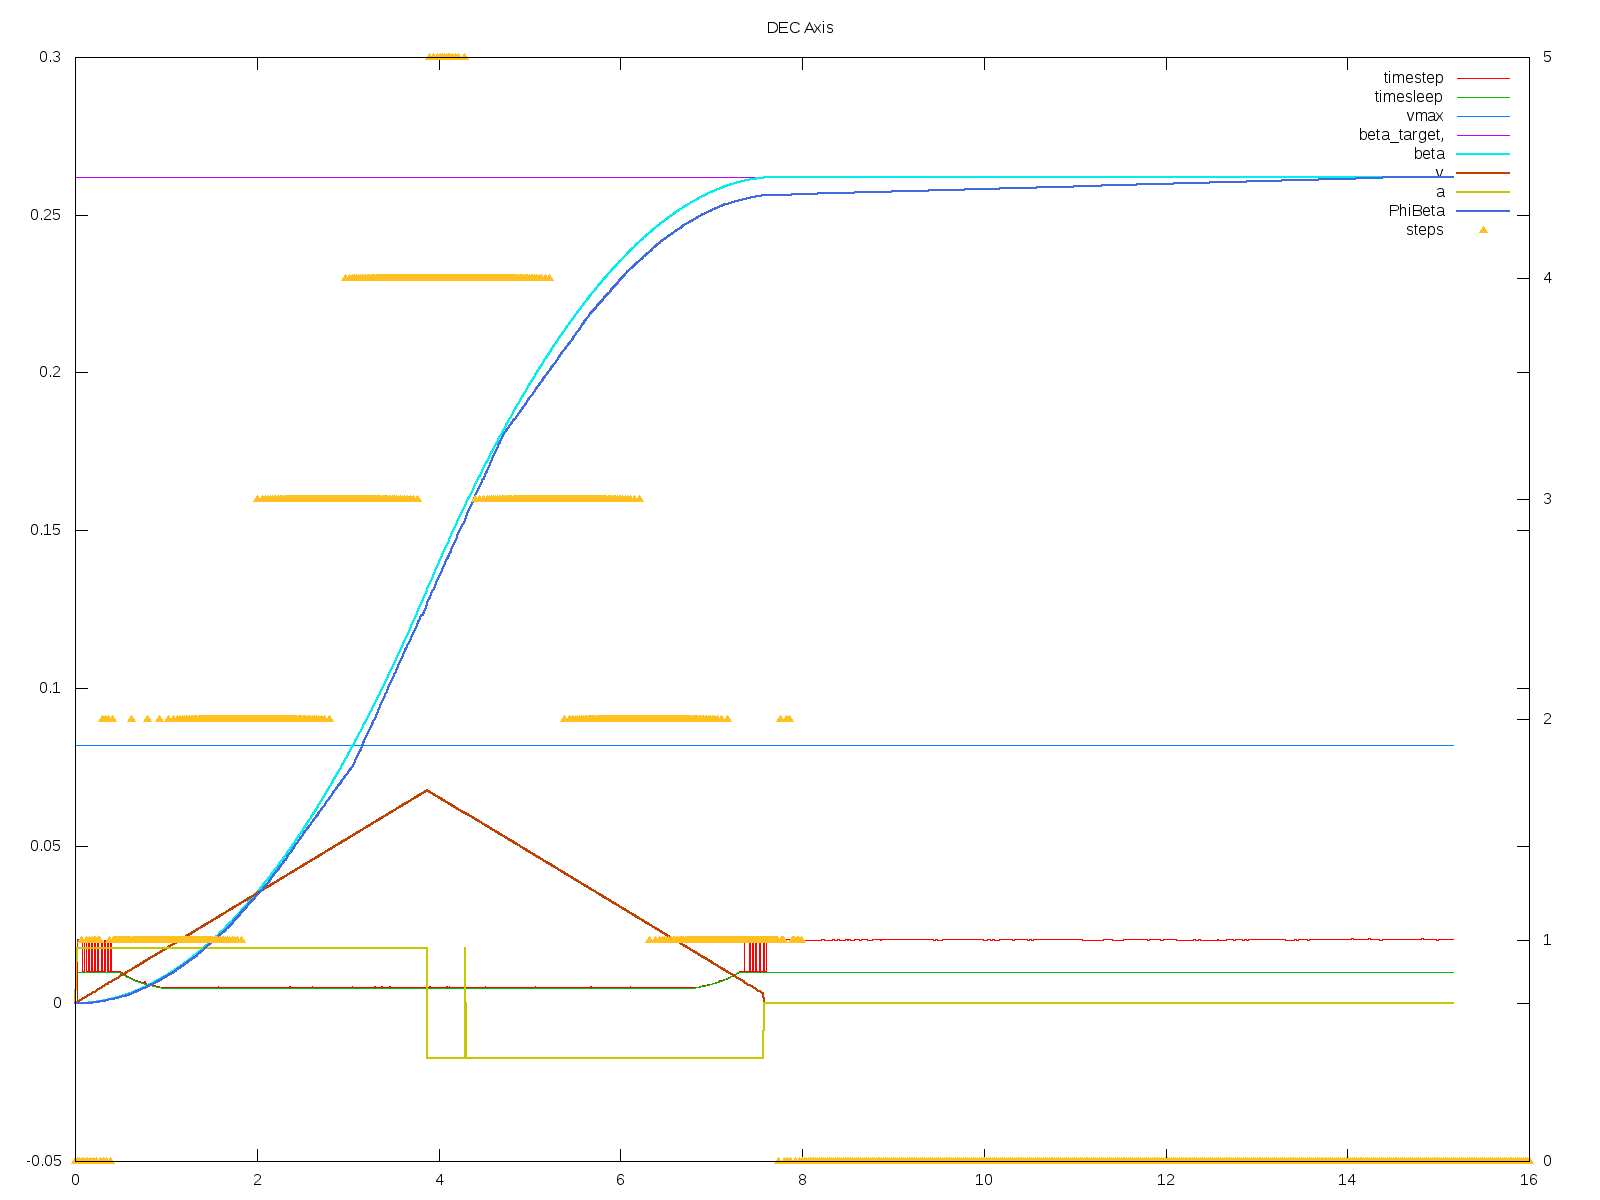
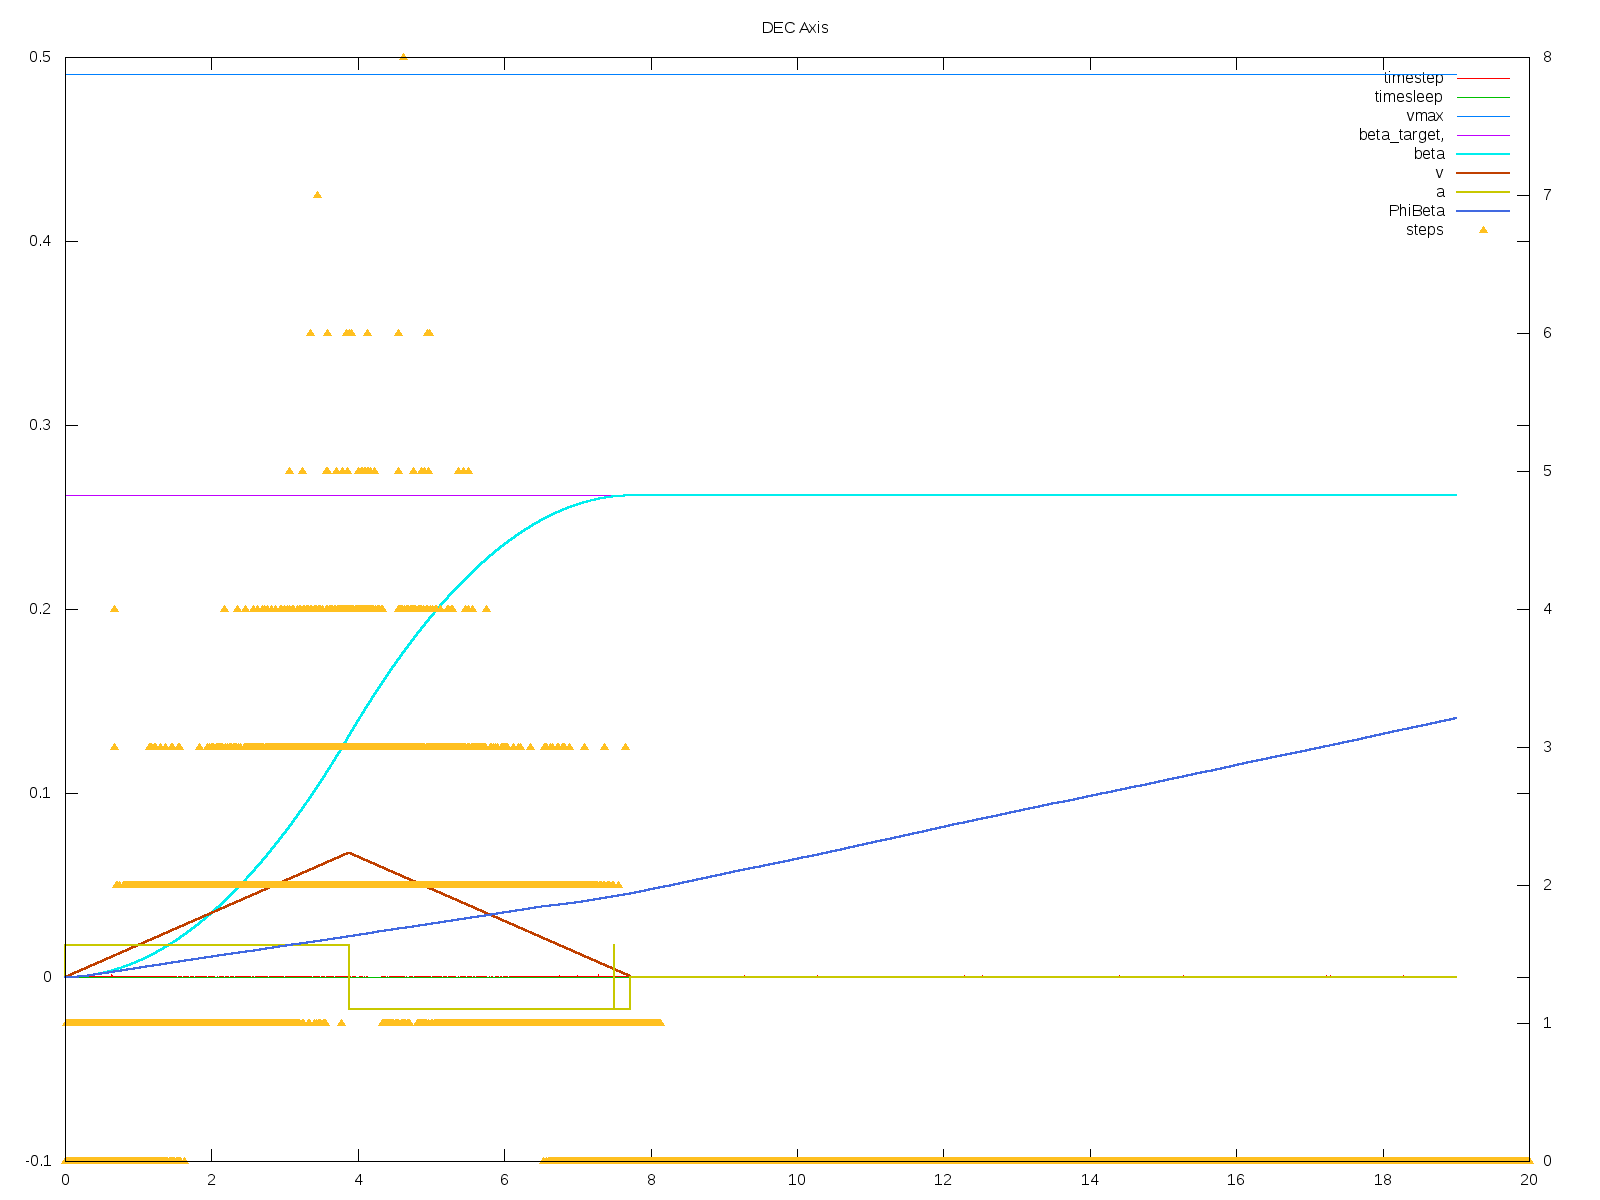
Hardware PWM. Some pulses get losse but works!

diff --git a/ramps.py b/ramps.py
@@ -209,7 +209,7 @@ class AxisDriver(axis):
 		self.DIR_PIN=DIR_PIN
 		cb1 = self.pi.callback(self.PIN, pigpio.FALLING_EDGE, self.stepCounter)
 		self.stepsPerRevolution=200*16*24	#Motor:steps*microsteps*gearbox
-		self.corona=30
+		self.corona=500
 		self.plate=500
 		self.FullTurnSteps=self.plate*self.stepsPerRevolution/self.corona
 		self.stepsRest=0
@@ -288,8 +288,9 @@ class AxisDriver(axis):
 		if abs(self.stepTarget-self.PhiBeta) == 0:
 	 	   with self.lock:
 			self.discartFlag=True
-		  	self.pi.set_PWM_dutycycle(self.PIN, 0)
-			self.pi.set_PWM_frequency(self.PIN,0)
+			self.pi.hardware_PWM(self.PIN,0,0)
+		  	#self.pi.set_PWM_dutycycle(self.PIN, 0)
+			#self.pi.set_PWM_frequency(self.PIN,0)
 			#self.pi.write(self.PIN, 0)
 			#print self.name,self.PhiBeta,self.stepTarget,abs(self.stepTarget-self.PhiBeta)
 			#print "Stop PWM"
@@ -313,29 +314,39 @@ class AxisDriver(axis):
 
 	@threaded
 	def stepQueue(self):
-	  self.pi.set_PWM_frequency(self.PIN,1/self.pulseWidth)
+	  #self.pi.set_PWM_frequency(self.PIN,1/self.pulseWidth)
  	  while not self.kill:
 		with self.lock:
 		   if abs(self.stepTarget-self.PhiBeta) != 0:
-			self.pi.set_PWM_dutycycle(self.PIN, int(self.pulseDuty*255))
+			#self.pi.set_PWM_dutycycle(self.PIN, int(self.pulseDuty*255))
 			freq=round(abs(self.v)*1/self.MinPhiStep)
 			#print freq
 			if freq  <1/self.pulseWidth:
-				self.pi.set_PWM_frequency(self.PIN,freq)
+				#self.pi.set_PWM_frequency(self.PIN,freq)
+				self.pi.hardware_PWM(self.PIN,freq,self.pulseDuty*1000000)
 				if freq>self.pi.get_PWM_frequency(self.PIN):
+					pass
 					print self.name,freq,self.pi.get_PWM_frequency(self.PIN)
 			else:
-				self.pi.set_PWM_frequency(self.PIN,1/self.pulseWidth)
+				#self.pi.set_PWM_frequency(self.PIN,1/self.pulseWidth)
+				self.pi.hardware_PWM(self.PIN,1/self.pulseWidth,self.pulseDuty*1000000)
 			self.discartFlag=False
 		time.sleep(self.pulseWidth)
 	  print "STEPS QUEUE END"
-	  self.pi.set_PWM_dutycycle(self.PIN, 0)
+	  self.pi.hardware_PWM(self.PIN,0,0)
+	  #self.pi.set_PWM_dutycycle(self.PIN, 0)
 	  time.sleep(self.pulseWidth)
+
+	def testFreq(self):
+		for f in range(1000):
+			#self.pi.set_PWM_frequency(self.PIN,f)
+			self.pi.hardware_PWM(self.PIN,f,500000)
+			print f, self.pi.get_PWM_frequency(self.PIN)
 
 class mount:
 	def __init__(self,a,v,pointError):
-		self.axis1=AxisDriver(a,v,pointError,4,12)
-		self.axis2=AxisDriver(a,v,pointError,5,13)
+		self.axis1=AxisDriver(a,v,pointError,12,4)
+		self.axis2=AxisDriver(a,v,pointError,13,5)
 		#self.axis1=axis(a,v,pointError)
 		#self.axis2=axis(a,v,pointError)
 		self.axis1.setName("RA")
@@ -399,12 +410,18 @@ class mount:
 		self.axis2.kill=True
 
 
+
+
+
 if __name__ == '__main__':
 	#m=mount(1,1)
 	a=ephem.degrees('01:00:00')
 	v=ephem.degrees('05:00:00')
 	e=ephem.degrees('00:00:01')
 	m=mount(a,v,e)
+	#m.axis1.testFreq()
+	#m.end()
+	#exit(0)
 	m.trackSpeed(e,0)
 	RA=ephem.hours('01:00:00')
 	DEC=ephem.degrees('15:00:00')
